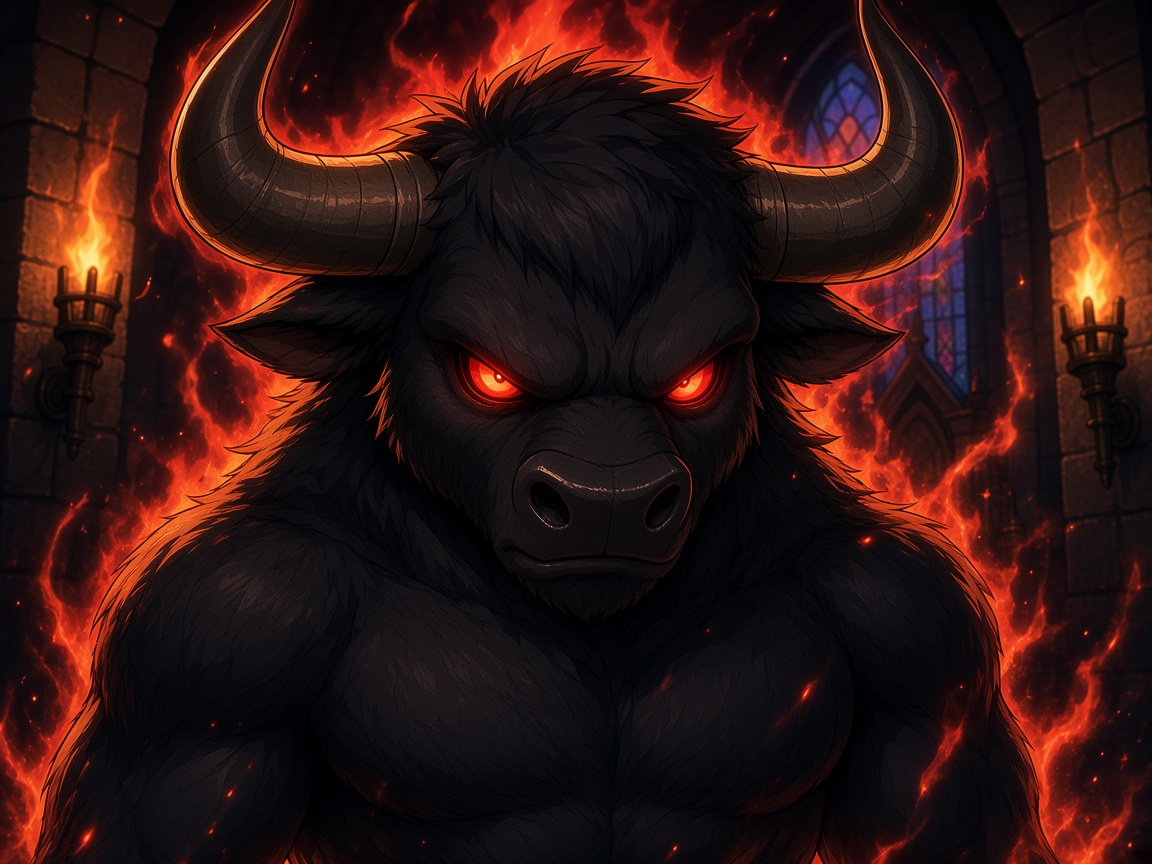
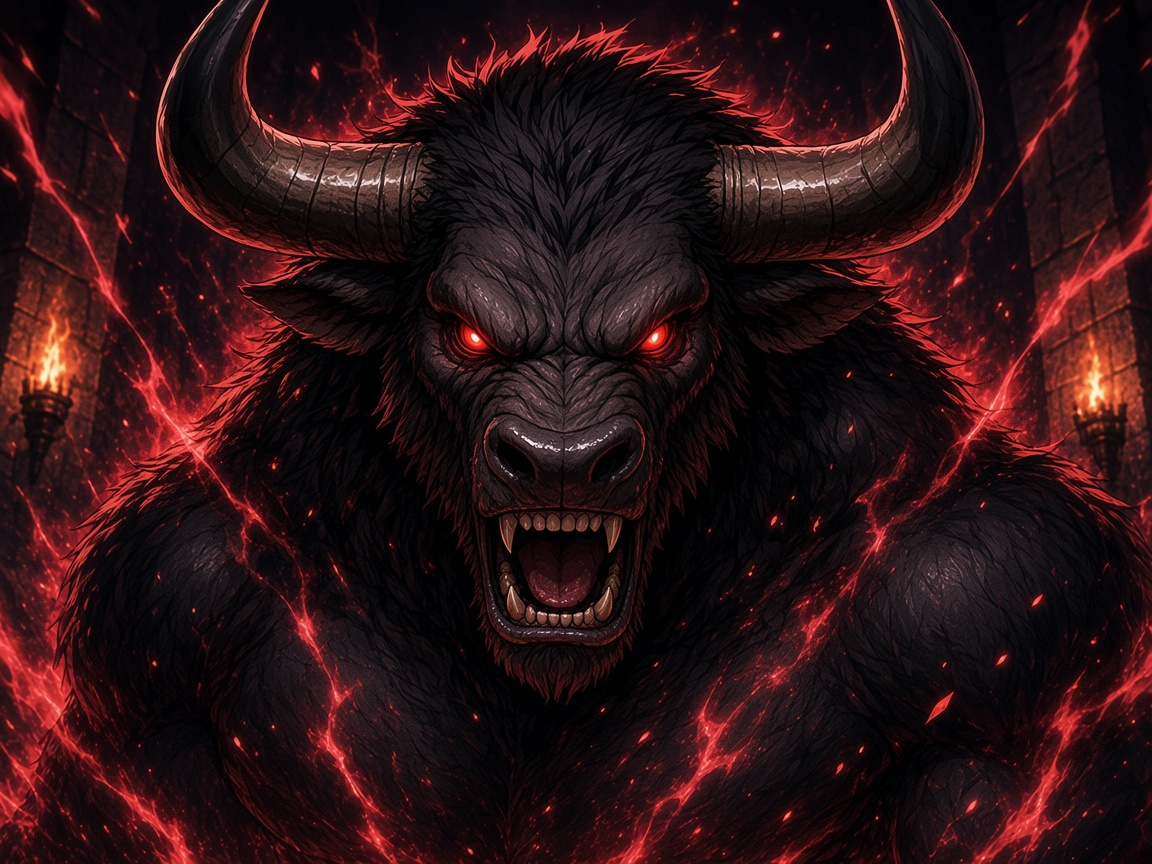
Match parry and anger art to the other cards, and show gold names on three-star cards.

diff --git a/index.html b/index.html
@@ -3963,6 +3963,26 @@
       -webkit-text-stroke: 0;
       text-shadow: none;
     }
+    .card .card-fit.r2 .nameplate .name {
+      color: #d7dee8;
+      -webkit-text-stroke: 0.9px #0a0806;
+      paint-order: stroke fill;
+      text-shadow:
+        1px 0 0 #0a0806,
+        -1px 0 0 #0a0806,
+        0 1px 0 #0a0806,
+        0 -1px 0 #0a0806;
+    }
+    .card .card-fit.r3 .nameplate .name {
+      color: #ffe14a;
+      -webkit-text-stroke: 0.9px #0a0806;
+      paint-order: stroke fill;
+      text-shadow:
+        1px 0 0 #0a0806,
+        -1px 0 0 #0a0806,
+        0 1px 0 #0a0806,
+        0 -1px 0 #0a0806;
+    }
     .card .card-fit .text {
       position: absolute;
       left: 9cqw;
@@ -6548,7 +6568,7 @@
       アタック: "card-attack-f.jpg?v=9",
       チャージアタック: "card-charge-f.jpg?v=7",
       ブロック: "card-block-f.jpg?v=10",
-      パリィ: "card-parry.jpg?v=7",
+      パリィ: "card-parry.jpg?v=8",
       捨て身の一撃: "",
       怒り: "",
       パリィスラッシュ: "",
@@ -7950,7 +7970,7 @@
     }
 
     function foeAngerCard() {
-      return { name: "怒り", cost: 0, text: "この戦闘中 ATK+1 DEF-1", kind: "skill", rage: true, foeRage: true, image: "card-anger.jpg?v=1" };
+      return { name: "怒り", cost: 0, text: "この戦闘中 ATK+1 DEF-1", kind: "skill", rage: true, foeRage: true, image: "card-anger.jpg?v=2" };
     }
 
     function advanceEnemyLoop() {
